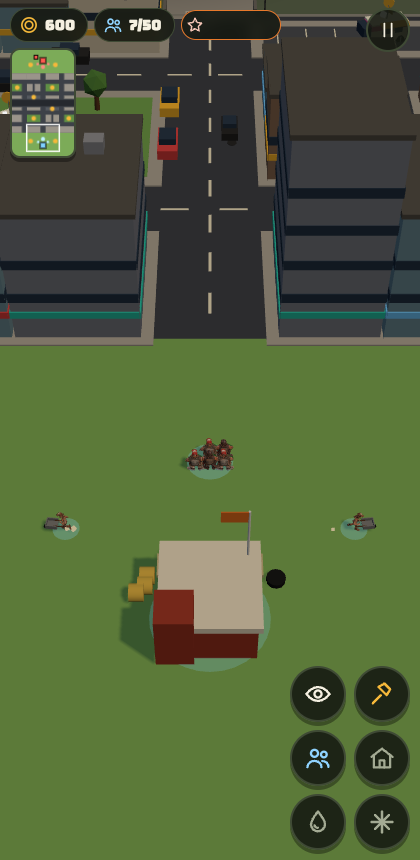
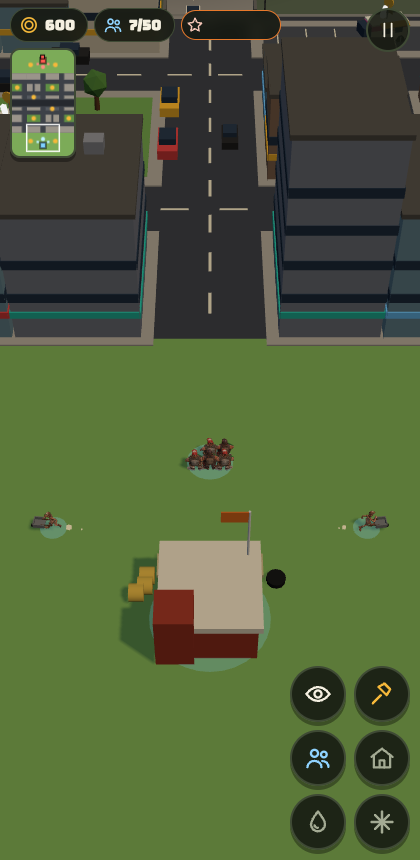
B93: Power aiming preview: while a targeted power is armed, a pulsing ring + soft fill of its real radius (mud 8, cones 7, wreck 5, takeover 7, jet 3, fireworks 7, mixtape 7, wifi 8) sits at the screen centre and then follows the finger, in your faction colour; gone when the power fires or is cancel
Claude-Session: https://claude.ai/code/session_01FXzpagnksiDmMAqP3MTiXJ

diff --git a/src/render/sync.js b/src/render/sync.js
@@ -1,16 +1,18 @@
 // Mirrors sim state into the scene every frame. Reads the sim, never writes to it.
-import { THREE, scene, camera, mat, box, basic, ringMesh, disposeObj, casts } from './scene.js?v=92';
-import { makeMember, bldMesh, nodeMesh, formation, FC } from './models.js?v=92';
-import { makeChar, charsReady, play, CAST } from './chars.js?v=92';
-import { emit } from '../fx/particles.js?v=92';
-import { bark } from '../fx/sfx.js?v=92';
-import { TICK } from '../config/factions.js?v=92';
-import { walkH } from '../map/layout.js?v=92';
-import { NODE_AMOUNT, BLD, BUILD_RADIUS } from '../config/factions.js?v=92';
-import { Q, pl, getSim } from '../sim/sim.js?v=92';
-import { UI } from '../ui/state.js?v=92';
-import { fxConfetti, fxDeath } from '../fx/fx.js?v=92';
-import { lerpAngle } from '../util/math.js?v=92';
+import { THREE, scene, camera, mat, box, basic, ringMesh, disposeObj, casts } from './scene.js?v=93';
+import { makeMember, bldMesh, nodeMesh, formation, FC } from './models.js?v=93';
+import { makeChar, charsReady, play, CAST } from './chars.js?v=93';
+import { emit } from '../fx/particles.js?v=93';
+import { bark } from '../fx/sfx.js?v=93';
+import { TICK } from '../config/factions.js?v=93';
+import { walkH } from '../map/layout.js?v=93';
+import { NODE_AMOUNT, BLD, BUILD_RADIUS, FACTIONS } from '../config/factions.js?v=93';
+import { CAM } from '../camera/camera.js?v=93';
+const fac0 = (S) => FACTIONS[S.players[0].f];
+import { Q, pl, getSim } from '../sim/sim.js?v=93';
+import { UI } from '../ui/state.js?v=93';
+import { fxConfetti, fxDeath } from '../fx/fx.js?v=93';
+import { lerpAngle } from '../util/math.js?v=93';
 // Selection rings take your faction colour, washed toward white so they still pop on any ground.
 const selCol = () => { const S = getSim(), f = S && S.players[0].f; return f ? new THREE.Color(FC[f].main).lerp(new THREE.Color(0xffffff), 0.35).getHex() : 0xffffff; };
 
@@ -161,6 +163,7 @@ const hop = (o, i) => { if (!(o.ack > 0)) return 0; const k = 1 - o.ack / 0.45 -
 export function syncRender(S, alpha, dt, time) {
   const selIds = new Set(UI.sel && UI.sel.type === 'sq' ? UI.sel.ids : []);
   hillRender(S, time);
+  aimRender(S, time);
   const seen = new Set();
   for (const s of S.squads) {
     seen.add(s.id);
@@ -549,6 +552,22 @@ export function syncRender(S, alpha, dt, time) {
   if (R.zone) R.zone.children.forEach((c) => { if (c.userData.spin) c.rotation.y = time * 0.05; });
 }
 
+// Power aiming preview: while a targeted power is armed, a ring of its real radius sits under the finger (or the screen
+// centre until the finger moves), in your faction colour, pulsing. Radii mirror the sim (A.power / resolvePending).
+const AIM_R = { mud: 8, cones: 7, wreck: 5, takeover: 7, jet: 3, fireworks: 7, mixtape: 7, wifi: 8 };
+function aimRender(S, time) {
+  const pw = UI.armed !== null && S.players[0] && fac0(S).powers[UI.armed];
+  if (!pw || !AIM_R[pw.id]) { if (R.aim) R.aim.visible = false; if (UI.armed === null) UI.aim = null; return; }
+  const r = AIM_R[pw.id];
+  if (!R.aim || R.aim.userData.r !== r) {
+    if (R.aim) disposeObj(R.aim);
+    R.aim = new THREE.Group(); R.aim.userData.r = r;
+    const ring = ringMesh(r - 0.35, r, selCol(), 0.9), fill = new THREE.Mesh(new THREE.CircleGeometry(r - 0.35, 40), basic(selCol(), 0.15));
+    fill.rotation.x = -Math.PI / 2; fill.position.y = 0.09; R.aim.add(ring, fill); scene.add(R.aim);
+  }
+  const x = UI.aim ? UI.aim.x : CAM.tx, z = UI.aim ? UI.aim.z : CAM.tz;
+  R.aim.visible = true; R.aim.position.set(x, walkH(x, z), z); R.aim.scale.setScalar(1 + Math.sin(time * 6) * 0.03);
+}
 // King of the Hill marker: a glowing ring + flag on the middle overpass, tinted to the holder, flickering when contested.
 function hillRender(S, time) {
   if (!S.hill) { if (R.hill) { disposeObj(R.hill.g); R.hill = null; } return; }
@@ -567,6 +586,7 @@ function hillRender(S, time) {
   o.flag.rotation.y = Math.sin(time * 3) * 0.3; o.flag.scale.x = 1 + Math.sin(time * 7) * 0.08;
 }
 export function clearRender() {
+  if (R.aim) { disposeObj(R.aim); R.aim = null; }
   if (R.hill) { disposeObj(R.hill.g); R.hill = null; }
   for (const o of R.sq.values()) disposeObj(o.root);
   for (const o of R.bl.values()) { disposeObj(o.root); if (o.flag) { disposeObj(o.flag); disposeObj(o.dots); } }

diff --git a/src/main.js b/src/main.js
@@ -1,22 +1,22 @@
 // Entry point: wires sim + render + input + UI and runs the fixed-step loop.
-import { renderer, scene, camera, followSun, THREE, setTimeOfDay } from './render/scene.js?v=92';
-import { buildWorld, updateWorld, setDusk } from './render/world.js?v=92';
-import { syncRender, clearRender, bump } from './render/sync.js?v=92';
-import { handleEvents, updateFx, clearFx } from './fx/fx.js?v=92';
-import { newSim, getSim, step } from './sim/sim.js?v=92';
-import { TICK } from './config/factions.js?v=92';
-import { CAM, applyCam, resetCam, onResize } from './camera/camera.js?v=92';
-import { initInput, lockPageZoom } from './input/input.js?v=92';
-import { refreshHUD, resetHUD, updatePlaceBar } from './ui/hud.js?v=92';
-import { resetUI } from './ui/state.js?v=92';
-import { fillIcons, svg } from './ui/icons.js?v=92';
-import { noteAlerts, updateAlert, clearAlert } from './ui/alert.js?v=92';
-import { updateMinimap } from './ui/minimap.js?v=92';
-import { isMuted, setMuted } from './fx/sfx.js?v=92';
-import { loadChars } from './render/chars.js?v=92';
-import { FC } from './render/models.js?v=92';
+import { renderer, scene, camera, followSun, THREE, setTimeOfDay } from './render/scene.js?v=93';
+import { buildWorld, updateWorld, setDusk } from './render/world.js?v=93';
+import { syncRender, clearRender, bump } from './render/sync.js?v=93';
+import { handleEvents, updateFx, clearFx } from './fx/fx.js?v=93';
+import { newSim, getSim, step } from './sim/sim.js?v=93';
+import { TICK } from './config/factions.js?v=93';
+import { CAM, applyCam, resetCam, onResize } from './camera/camera.js?v=93';
+import { initInput, lockPageZoom } from './input/input.js?v=93';
+import { refreshHUD, resetHUD, updatePlaceBar } from './ui/hud.js?v=93';
+import { resetUI } from './ui/state.js?v=93';
+import { fillIcons, svg } from './ui/icons.js?v=93';
+import { noteAlerts, updateAlert, clearAlert } from './ui/alert.js?v=93';
+import { updateMinimap } from './ui/minimap.js?v=93';
+import { isMuted, setMuted } from './fx/sfx.js?v=93';
+import { loadChars } from './render/chars.js?v=93';
+import { FC } from './render/models.js?v=93';
 
-export const BUILD = 92; // written by `npm run bump`
+export const BUILD = 93; // written by `npm run bump`
 lockPageZoom();
 fillIcons();
 buildWorld();

diff --git a/index.html b/index.html
@@ -6,7 +6,7 @@
 <meta name="viewport" content="width=device-width,initial-scale=1,maximum-scale=1,user-scalable=no,viewport-fit=cover">
 <link rel="preconnect" href="https://fonts.googleapis.com">
 <link rel="stylesheet" href="https://fonts.googleapis.com/css2?family=Bungee&family=Lilita+One&display=swap">
-<link rel="stylesheet" href="./src/ui/style.css?v=92">
+<link rel="stylesheet" href="./src/ui/style.css?v=93">
 <!-- No build step needed: GitHub Pages serves this file straight from main, so bare 'three' imports resolve here. -->
 <script type="importmap">
 { "imports": { "three": "./vendor/three/three.module.min.js", "three/examples/jsm/": "./vendor/three/jsm/" } }
@@ -34,7 +34,7 @@
 <div id="box"></div>
 <div id="holdRing" hidden></div>
 <div id="menu" class="overlay">
-  <h1>Culture <em>Wars</em><span>GREYBOX 04 · <b id="build">B92</b></span></h1>
+  <h1>Culture <em>Wars</em><span>GREYBOX 04 · <b id="build">B93</b></span></h1>
   <div class="diff" id="diff"><button type="button" data-d="0" aria-label="Easy"><span class="ic" data-i="star"></span></button><button type="button" data-d="1" class="on" aria-label="Normal"><span class="ic" data-i="star"></span><span class="ic" data-i="star"></span></button><button type="button" data-d="2" aria-label="Hard"><span class="ic" data-i="star"></span><span class="ic" data-i="star"></span><span class="ic" data-i="star"></span></button><i class="sep"></i><button type="button" class="mode" data-m="vs" aria-label="Versus"><span class="ic" data-i="home"></span></button><button type="button" class="mode" data-m="hill" aria-label="King of the Hill"><span class="ic" data-i="flag"></span></button></div>
   <div class="picks">
     <button class="pick" data-f="bw" type="button"><span class="ic" data-i="truck"></span>Backwoods<small>FEWER · TOUGHER</small></button>
@@ -63,6 +63,6 @@
   setTimeout(function () { if (!window.__cwBooted) show('Game script did not start (old cached file? wait a few minutes and reload)'); }, 8000);
 })();
 </script>
-<script type="module" src="./src/main.js?v=92" onerror="__cwLoadFail()"></script>
+<script type="module" src="./src/main.js?v=93" onerror="__cwLoadFail()"></script>
 </body>
 </html>

diff --git a/src/ui/hud.js b/src/ui/hud.js
@@ -1,15 +1,15 @@
 // HUD: resource chips, context panel, command buttons, floating placement confirm, long-press labels.
 // Buttons are described as data ("specs") each refresh; the DOM is rebuilt only when the set of buttons changes.
 // Every action goes through sim.command(); Q.* is used only for instant feedback (shake, dim).
-import { svg } from './icons.js?v=92';
-import { UI, select, selSquads } from './state.js?v=92';
-import { getSim, pl, fac, Q, command, count, cpUsed, cpCap, hqOf } from '../sim/sim.js?v=92';
-import { BLD, BUILD_KINDS, TRAIN_SLOTS, UPG, REQ } from '../config/factions.js?v=92';
-import { CAM, toggleView, focus } from '../camera/camera.js?v=92';
-import { camera } from '../render/scene.js?v=92';
-import { walkH } from '../map/layout.js?v=92';
-import { THREE } from '../render/scene.js?v=92';
-import { showHint } from './hint.js?v=92';
+import { svg } from './icons.js?v=93';
+import { UI, select, selSquads } from './state.js?v=93';
+import { getSim, pl, fac, Q, command, count, cpUsed, cpCap, hqOf } from '../sim/sim.js?v=93';
+import { BLD, BUILD_KINDS, TRAIN_SLOTS, UPG, REQ } from '../config/factions.js?v=93';
+import { CAM, toggleView, focus } from '../camera/camera.js?v=93';
+import { camera } from '../render/scene.js?v=93';
+import { walkH } from '../map/layout.js?v=93';
+import { THREE } from '../render/scene.js?v=93';
+import { showHint } from './hint.js?v=93';
 
 const panelEl = document.getElementById('panel'), cmdEl = document.getElementById('cmd'), queueEl = document.getElementById('queue');
 const placeBar = document.getElementById('placeBar'), tipEl = document.getElementById('tip');

diff --git a/src/input/input.js b/src/input/input.js
@@ -4,13 +4,13 @@
 //   hold then drag  = box select
 //   2 fingers       = pinch zoom + twist to rotate + drag to pan
 //   mouse: right-drag = box select, wheel = zoom; keys WASD/arrows pan, Q/E rotate, V ghost cam, Esc cancel
-import { THREE, camera, canvas } from '../render/scene.js?v=92';
-import { walkH } from '../map/layout.js?v=92';
-import { getSim, command } from '../sim/sim.js?v=92';
-import { UI, select, selSquads } from '../ui/state.js?v=92';
-import { CAM, panBy, clampCam, toggleView, pxPerUnit } from '../camera/camera.js?v=92';
-import { fxMarker } from '../fx/fx.js?v=92';
-import { ack } from '../render/sync.js?v=92';
+import { THREE, camera, canvas } from '../render/scene.js?v=93';
+import { walkH } from '../map/layout.js?v=93';
+import { getSim, command } from '../sim/sim.js?v=93';
+import { UI, select, selSquads } from '../ui/state.js?v=93';
+import { CAM, panBy, clampCam, toggleView, pxPerUnit } from '../camera/camera.js?v=93';
+import { fxMarker } from '../fx/fx.js?v=93';
+import { ack } from '../render/sync.js?v=93';
 
 const ray = new THREE.Raycaster(), ndc = new THREE.Vector2(), tmp = new THREE.Vector3();
 export function groundAt(cx, cy) {
@@ -106,6 +106,7 @@ export function initInput() {
     else gesture = { type: 'none' };
   });
   canvas.addEventListener('pointermove', (e) => {
+    if (UI.armed !== null) { const g = groundAt(e.clientX, e.clientY); if (g) UI.aim = { x: g.x, z: g.z }; } // power preview ring follows the finger
     const pt = pointers.get(e.pointerId);
     if (!pt || !gesture) return;
     pt.x = e.clientX; pt.y = e.clientY;

diff --git a/src/fx/fx.js b/src/fx/fx.js
@@ -1,12 +1,12 @@
 // Visual effects. Reads sim events, never changes the sim.
 // To add an effect for a new mechanic: emit S.events.push({k:'myThing', ...}) in the sim,
 // then add a case in handleEvents below.
-import { THREE, scene, mat, cyl, basic, disposeObj } from '../render/scene.js?v=92';
-import { walkH } from '../map/layout.js?v=92';
-import { sfx } from './sfx.js?v=92';
-import { shake, CAM } from '../camera/camera.js?v=92';
-import { FC } from '../render/models.js?v=92';
-import { emit, updateParticles, clearParticles, burstHit, burstShot, burstCoins } from './particles.js?v=92';
+import { THREE, scene, mat, cyl, basic, disposeObj } from '../render/scene.js?v=93';
+import { walkH } from '../map/layout.js?v=93';
+import { sfx } from './sfx.js?v=93';
+import { shake, CAM } from '../camera/camera.js?v=93';
+import { FC } from '../render/models.js?v=93';
+import { emit, updateParticles, clearParticles, burstHit, burstShot, burstCoins } from './particles.js?v=93';
 
 const fx = [];
 function addFx(obj, life, upd) { scene.add(obj); fx.push({ obj, life, t: 0, upd }); }

diff --git a/src/render/world.js b/src/render/world.js
@@ -1,9 +1,9 @@
 // Static city: streets, sidewalks, buildings, parks, freeway trench + overpasses, ambient traffic.
 // Built once from map/layout.js. Mostly InstancedMesh so it stays cheap on phones.
-import { THREE, scene, mat, box } from './scene.js?v=92';
-import { MAP, BLOCKS, TREES, PARKED, TRENCH, OVERPASSES, AVENUES, CROSS_STREETS, HOME_Z, inRect, walkH } from '../map/layout.js?v=92';
-import { hash } from '../util/math.js?v=92';
-import { emit } from '../fx/particles.js?v=92';
+import { THREE, scene, mat, box } from './scene.js?v=93';
+import { MAP, BLOCKS, TREES, PARKED, TRENCH, OVERPASSES, AVENUES, CROSS_STREETS, HOME_Z, inRect, walkH } from '../map/layout.js?v=93';
+import { hash } from '../util/math.js?v=93';
+import { emit } from '../fx/particles.js?v=93';
 
 const COL = {
   asphalt: 0x3d4148, sidewalk: 0xa8a49a, grass: 0x6f9e50, lawn: 0x7cab58, lot: 0x4b4f56, stripe: 0xe8e2c8,

diff --git a/src/sim/sim.js b/src/sim/sim.js
@@ -9,11 +9,11 @@
 import {
   TICK, START_CASH, BUILD_RADIUS, MAX_WORKERS, NODE_AMOUNT, GATHER_T, CARRY, BASE_INCOME, DEPOT_INCOME,
   COUNTER, REQ, UPG, UPT, BLD, FACTIONS,
-} from '../config/factions.js?v=92';
-import { MAP, NODES, BASES, walkH } from '../map/layout.js?v=92';
-import { markCircle, isBlocked, lineClear, nearestFree, findPath, blocked, cellOf, cellCenter, inGrid } from '../map/grid.js?v=92';
-import { mulberry32 } from '../util/math.js?v=92';
-import { aiStep } from './ai.js?v=92';
+} from '../config/factions.js?v=93';
+import { MAP, NODES, BASES, walkH } from '../map/layout.js?v=93';
+import { markCircle, isBlocked, lineClear, nearestFree, findPath, blocked, cellOf, cellCenter, inGrid } from '../map/grid.js?v=93';
+import { mulberry32 } from '../util/math.js?v=93';
+import { aiStep } from './ai.js?v=93';
 
 let S = null;
 export const getSim = () => S;

diff --git a/src/ui/minimap.js b/src/ui/minimap.js
@@ -1,8 +1,8 @@
 // Minimap, top-left under the resource chips. Fixed orientation: your base at the bottom (+z), enemy at the top.
 // Tap or drag on it to move the camera there. Static city is drawn once; units/buildings redraw ~10x a second.
-import { MAP, BLOCKS, TRENCH } from '../map/layout.js?v=92';
-import { CAM, focus } from '../camera/camera.js?v=92';
-import { getSim } from '../sim/sim.js?v=92';
+import { MAP, BLOCKS, TRENCH } from '../map/layout.js?v=93';
+import { CAM, focus } from '../camera/camera.js?v=93';
+import { getSim } from '../sim/sim.js?v=93';
 
 const cv = document.getElementById('mini'), ctx = cv.getContext('2d');
 const bg = document.createElement('canvas'), bctx = bg.getContext('2d');

diff --git a/src/ui/alert.js b/src/ui/alert.js
@@ -1,9 +1,9 @@
 // Under-attack alert: when something of yours is hit somewhere the camera is not looking, a red arrow pulses on
 // the screen edge pointing at it. Tap the arrow to fly there. Newest fight wins; it fades 5 s after the last hit.
-import { THREE, camera } from '../render/scene.js?v=92';
-import { walkH } from '../map/layout.js?v=92';
-import { focus } from '../camera/camera.js?v=92';
-import { svg } from './icons.js?v=92';
+import { THREE, camera } from '../render/scene.js?v=93';
+import { walkH } from '../map/layout.js?v=93';
+import { focus } from '../camera/camera.js?v=93';
+import { svg } from './icons.js?v=93';
 
 const el = document.getElementById('alert');
 el.innerHTML = svg('up');

diff --git a/src/render/chars.js b/src/render/chars.js
@@ -2,7 +2,7 @@
 // clips drives all of them: the clips come from three DONOR files and are retargeted onto each rig by bone name.
 // Nothing here is required: until the files load (or if they fail, e.g. the single-file artifact build) the
 // box placeholders in models.js are used, and sync.js swaps squads over once this reports ready.
-import { THREE } from './scene.js?v=92';
+import { THREE } from './scene.js?v=93';
 import { GLTFLoader } from 'three/examples/jsm/loaders/GLTFLoader.js';
 import { DRACOLoader } from 'three/examples/jsm/loaders/DRACOLoader.js';
 import { clone as skClone } from 'three/examples/jsm/utils/SkeletonUtils.js';

diff --git a/src/render/models.js b/src/render/models.js
@@ -2,7 +2,7 @@
 // SWAP POINT FOR REAL ART: replace makeMember / bldMesh / nodeMesh bodies with GLB clones.
 // Keep the same contract: return a THREE.Group, feet at y=0, facing +z, roughly to the scale below
 // (humans ~1.6 m, monster truck ~3 m long). userData.legs (optional) = [leftLeg, rightLeg] for walk swing.
-import { THREE, box, cyl, mat } from './scene.js?v=92';
+import { THREE, box, cyl, mat } from './scene.js?v=93';
 
 export const FC = {
   bw: { main: 0xe8792b, dark: 0x5a3a22, skin: 0xf2c9a0, alt: 0x3d5a80, hair: 0x4a2e1a },
